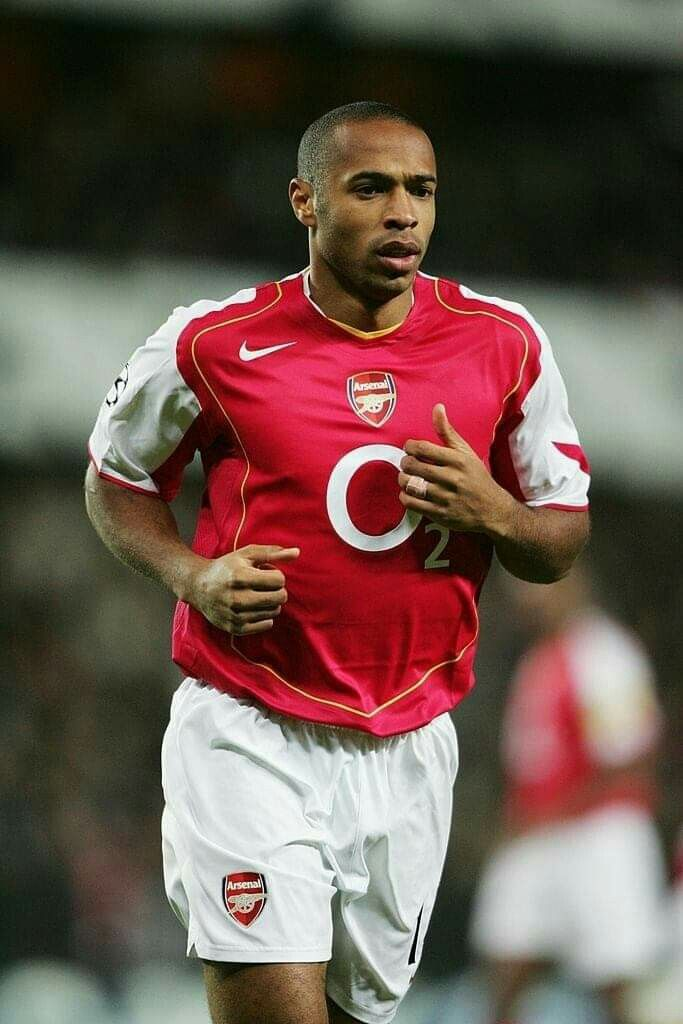
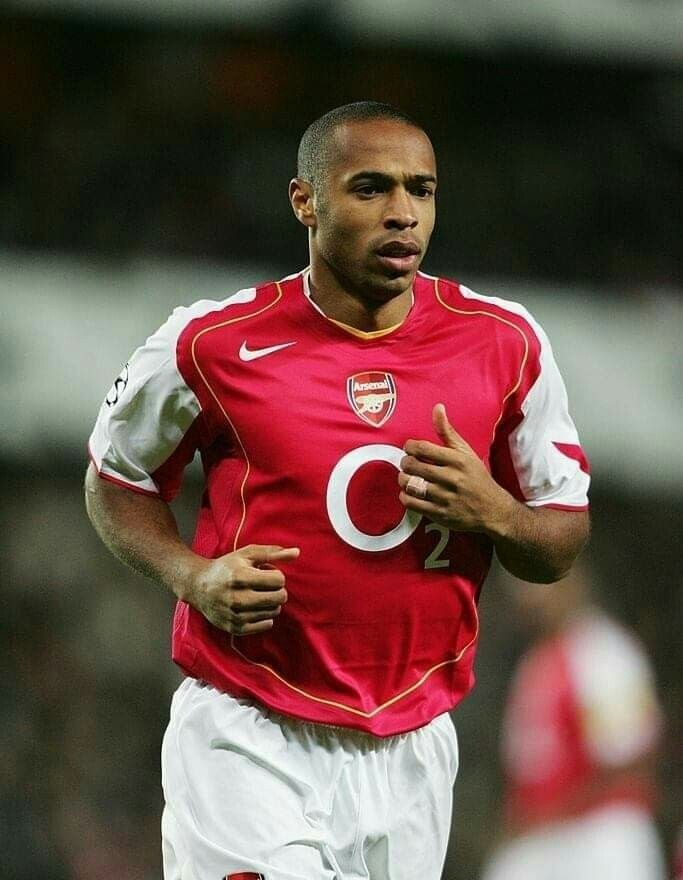
p4 hoàn thành

diff --git a/index.html b/index.html
@@ -175,7 +175,7 @@
                 <div class="flip-front">
                   <a href="#!">
                     <img
-                      src="./pic/henry3.jpg"
+                      src="./pic/henry.jpg"
                       alt="Basic web design"
                       class="thumb"
                     />
@@ -229,7 +229,7 @@
                           <div class="nation-left">
                             <img
                               src="https://resources.premierleague.com/premierleague/flags/FR.png"
-                              alt=""
+                              alt="France"
                             />
                             <p class="inhoa">France</p>
                           </div>
@@ -808,21 +808,52 @@
           <div class="body">
             <div class="images">
               <img
-                src="./pic/kelly-sikkema-Kl1gC0ve620-unsplash.jpg"
+                src="./pic/vodich.jpg"
                 alt="Learner outcomes through our awesome platform"
               />
             </div>
             <div class="content">
               <h2 class="heading-lv2">
-                Take the next step toward your personal and professional goals
-                with Lesson.
+                Why is Arsenal's unbeaten record so special ?
               </h2>
+              <hr />
               <p class="desc">
-                Take the next step toward. Join now to receive personalized and
-                more recommendations from the full Coursera catalog.
+                We became the first team in the modern era to go unbeaten in the
+                English top flight. We also did it in the Premier League in a
+                38-game season, against a Manchester United side managed by Sir
+                Alex Ferguson and a Chelsea side that had spent £110m the
+                previous summer, an unheard of sum at the time.
               </p>
-              <a href="#!" class="btn cta-btn">Join Now</a>
+              <br />
+              <p class="desc">
+                The Invincibles are the only team to complete a 38-match
+                unbeaten season in the English top flight. They also hold the
+                record for the longest unbeaten run in the league, which was 49
+                matches between May 2003 and October 2005.
+              </p>
+              <br />
+              <p class="desc">
+                Arsène Wenger built a team that could rival any in Europe. Sol
+                Campbell, Kolo Toure and Patrick Vieira provided the steel for
+                the spine of the team, allowing Robert Pires and Dennis Bergkamp
+                to express their creativity. Thierry Henry was arguably the best
+                striker in the world during this period, while Ashley Cole was
+                perhaps the best left-back of his era. The team was spirited and
+                unbeaten, highlighted by the fact that they never trailed in the
+                final 20 minutes of any of their 49 unbeaten matches.
+              </p>
+              <br />
+              <p class="desc">
+                The Invincibles picked up 90 points from 38 games in their
+                famous 2003/04 season, thanks to 28 wins and 12 draws. They
+                scored 73 goals and conceded just 26, finishing 11 points clear
+                of second-placed Chelsea.
+              </p>
+              <!-- <a href="#!" class="btn cta-btn">Join Now</a> -->
             </div>
+          </div>
+          <div class="logo-bottom">
+            <img src="./pic/bottom.jpg" alt="logo" class="logo-bottom-mini" />
           </div>
         </div>
       </div>
@@ -833,8 +864,8 @@
           <div class="blog-top">
             <h2 class="heading-lv2">Our blog</h2>
             <p class="desc">
-              Read our regular travel blog and know the latest update of tour
-              and travel
+              Read articles about Arsenal and their achievements through Premier
+              League season
             </p>
           </div>
           <div class="blog-list">
@@ -842,7 +873,7 @@
             <div class="item">
               <a href="#!"
                 ><img
-                  src="./pic/aaron-burden-QJDzYT_K8Xg-unsplash.jpg"
+                  src="./pic/rice.jpg"
                   alt="How to become a pro web designer in 2022 and get remote job?"
                   class="thumb"
               /></a>
@@ -851,7 +882,8 @@
                 <hr width="160px" size="1px" color="#e2dfda" />
                 <a href="#!">
                   <h3 class="title">
-                    How to become a pro web designer in 2022 and get remote job?
+                    Declan Rice: Arsenal's unstoppable machine and versatile
+                    midfield leader.
                   </h3>
                 </a>
                 <a href="#!" class="btn">Read More</a>
@@ -862,7 +894,7 @@
             <div class="item">
               <a href="#!"
                 ><img
-                  src="./pic/annie-spratt-ORDz1m1-q0I-unsplash.jpg"
+                  src="./pic/saka.jpg"
                   alt="How to become a pro web designer in 2022 and get remote job?"
                   class="thumb"
               /></a>
@@ -871,7 +903,7 @@
                 <hr width="160px" size="1px" color="#e2dfda" />
                 <a href="#!">
                   <h3 class="title">
-                    How to become a pro web designer in 2022 and get remote job?
+                    Bukayo Saka: Arsenal's creative and dynamic winger.
                   </h3>
                 </a>
                 <a href="#!" class="btn">Read More</a>
@@ -882,7 +914,7 @@
             <div class="item">
               <a href="#!"
                 ><img
-                  src="./pic/siora-photography-hgFY1mZY-Y0-unsplash.jpg"
+                  src="./pic/white.jpg"
                   alt="How to become a pro web designer in 2022 and get remote job?"
                   class="thumb"
               /></a>
@@ -891,7 +923,7 @@
                 <hr width="160px" size="1px" color="#e2dfda" />
                 <a href="#!">
                   <h3 class="title">
-                    How to become a pro web designer in 2022 and get remote job?
+                    Benjamin White: Arsenal's versatile and composed defender.
                   </h3>
                 </a>
                 <a href="#!" class="btn">Read More</a>
@@ -1034,22 +1066,22 @@
         <div class="row">
           <!-- column 1 -->
           <div class="column">
-            <img src="./pic/logo2.svg" alt="lesson." class="logo" />
+            <strong>Arsenal.</strong>
             <p class="desc">
               Need to help for your dream Career? trust us. With Lesson, study
               becomes a lot easier with us.
             </p>
             <div class="socials">
-              <a href="">
+              <a href="https://x.com/arsenal/?lang=vi" target="_blank">
                 <img src="./icon/Twitter.svg" alt="Twitter" class="icon" />
               </a>
-              <a href="">
+              <a href="https://www.facebook.com/Arsenal/?locale=vi_VN" target="_blank">
                 <img src="./icon/Facebook.svg" alt="FB" class="icon" />
               </a>
-              <a href="">
+              <a href="https://uk.linkedin.com/company/arsenal-f-c" target="_blank">
                 <img src="./icon/Linkedin.svg" alt="Linkedin" class="icon" />
               </a>
-              <a href="">
+              <a href="https://www.instagram.com/arsenal/" target="_blank">
                 <img src="./icon/Instagram.svg" alt="Instagram" class="icon" />
               </a>
             </div>

diff --git a/assets/css/style.css b/assets/css/style.css
@@ -837,7 +837,7 @@
   
   .feature {
     margin-top: 0px;
-    padding: 200px 0 0px;
+    padding: 200px 0 78px;
     background-color: black;
   }
   
@@ -880,7 +880,7 @@
   }
 
   .feature .desc {
-    margin-top: 13px;
+    margin-top: 6px;
     color: #5f5b53;
     font-size: 16px;
     line-height: 28px;
@@ -892,11 +892,12 @@
     width: 137px;
     height: 50px;
   }
-  
+
   /* ===================feature 2================= */
   
   .feature-2nd {
-    margin-top: 70px;
+    margin-top: -225px;
+    padding-bottom: 1px;
   }
   
   .feature-2nd .body {
@@ -905,7 +906,7 @@
   
   .feature-2nd .images img {
     width: 470px;
-    height: 440px;
+    height: 780px;
     object-fit: cover;
   }
   
@@ -913,12 +914,26 @@
     width: 49%;
   }
   
-  
+  .feature-2nd hr {
+    width: 100%;
+    height: 1px;
+  }
+
+  .feature-2nd .desc {
+    margin-top: -19px;
+    color: #5f5b53;
+    font-size: 16px;
+    line-height: 28px;
+  }
+
+  .feature-2nd .content .desc:first-of-type {
+    margin-top: 20px;
+  }
 
   /* ======================Blogs================= */
   
   .blogs {
-    margin-top: 135px;
+    margin-top: 0px;
     padding: 96px 0;
     background: #fffcf4;
   }
@@ -1058,10 +1073,24 @@
     width: 21.6%;
   }
   
+  .footer .column strong {
+    color: white;
+    font-weight: 700;
+  }
+
   .footer .row .column:first-child {
     width: 35%;
+    margin-top: 9px;
   }
   
+  .footer .Logo {
+    width: 42px;
+    height: 42px;
+    object-fit: cover;
+    margin-bottom: -3px;
+    margin-top: 0;
+  }
+
   .footer .desc {
     margin-top: 18px;
     max-width: 267px;
